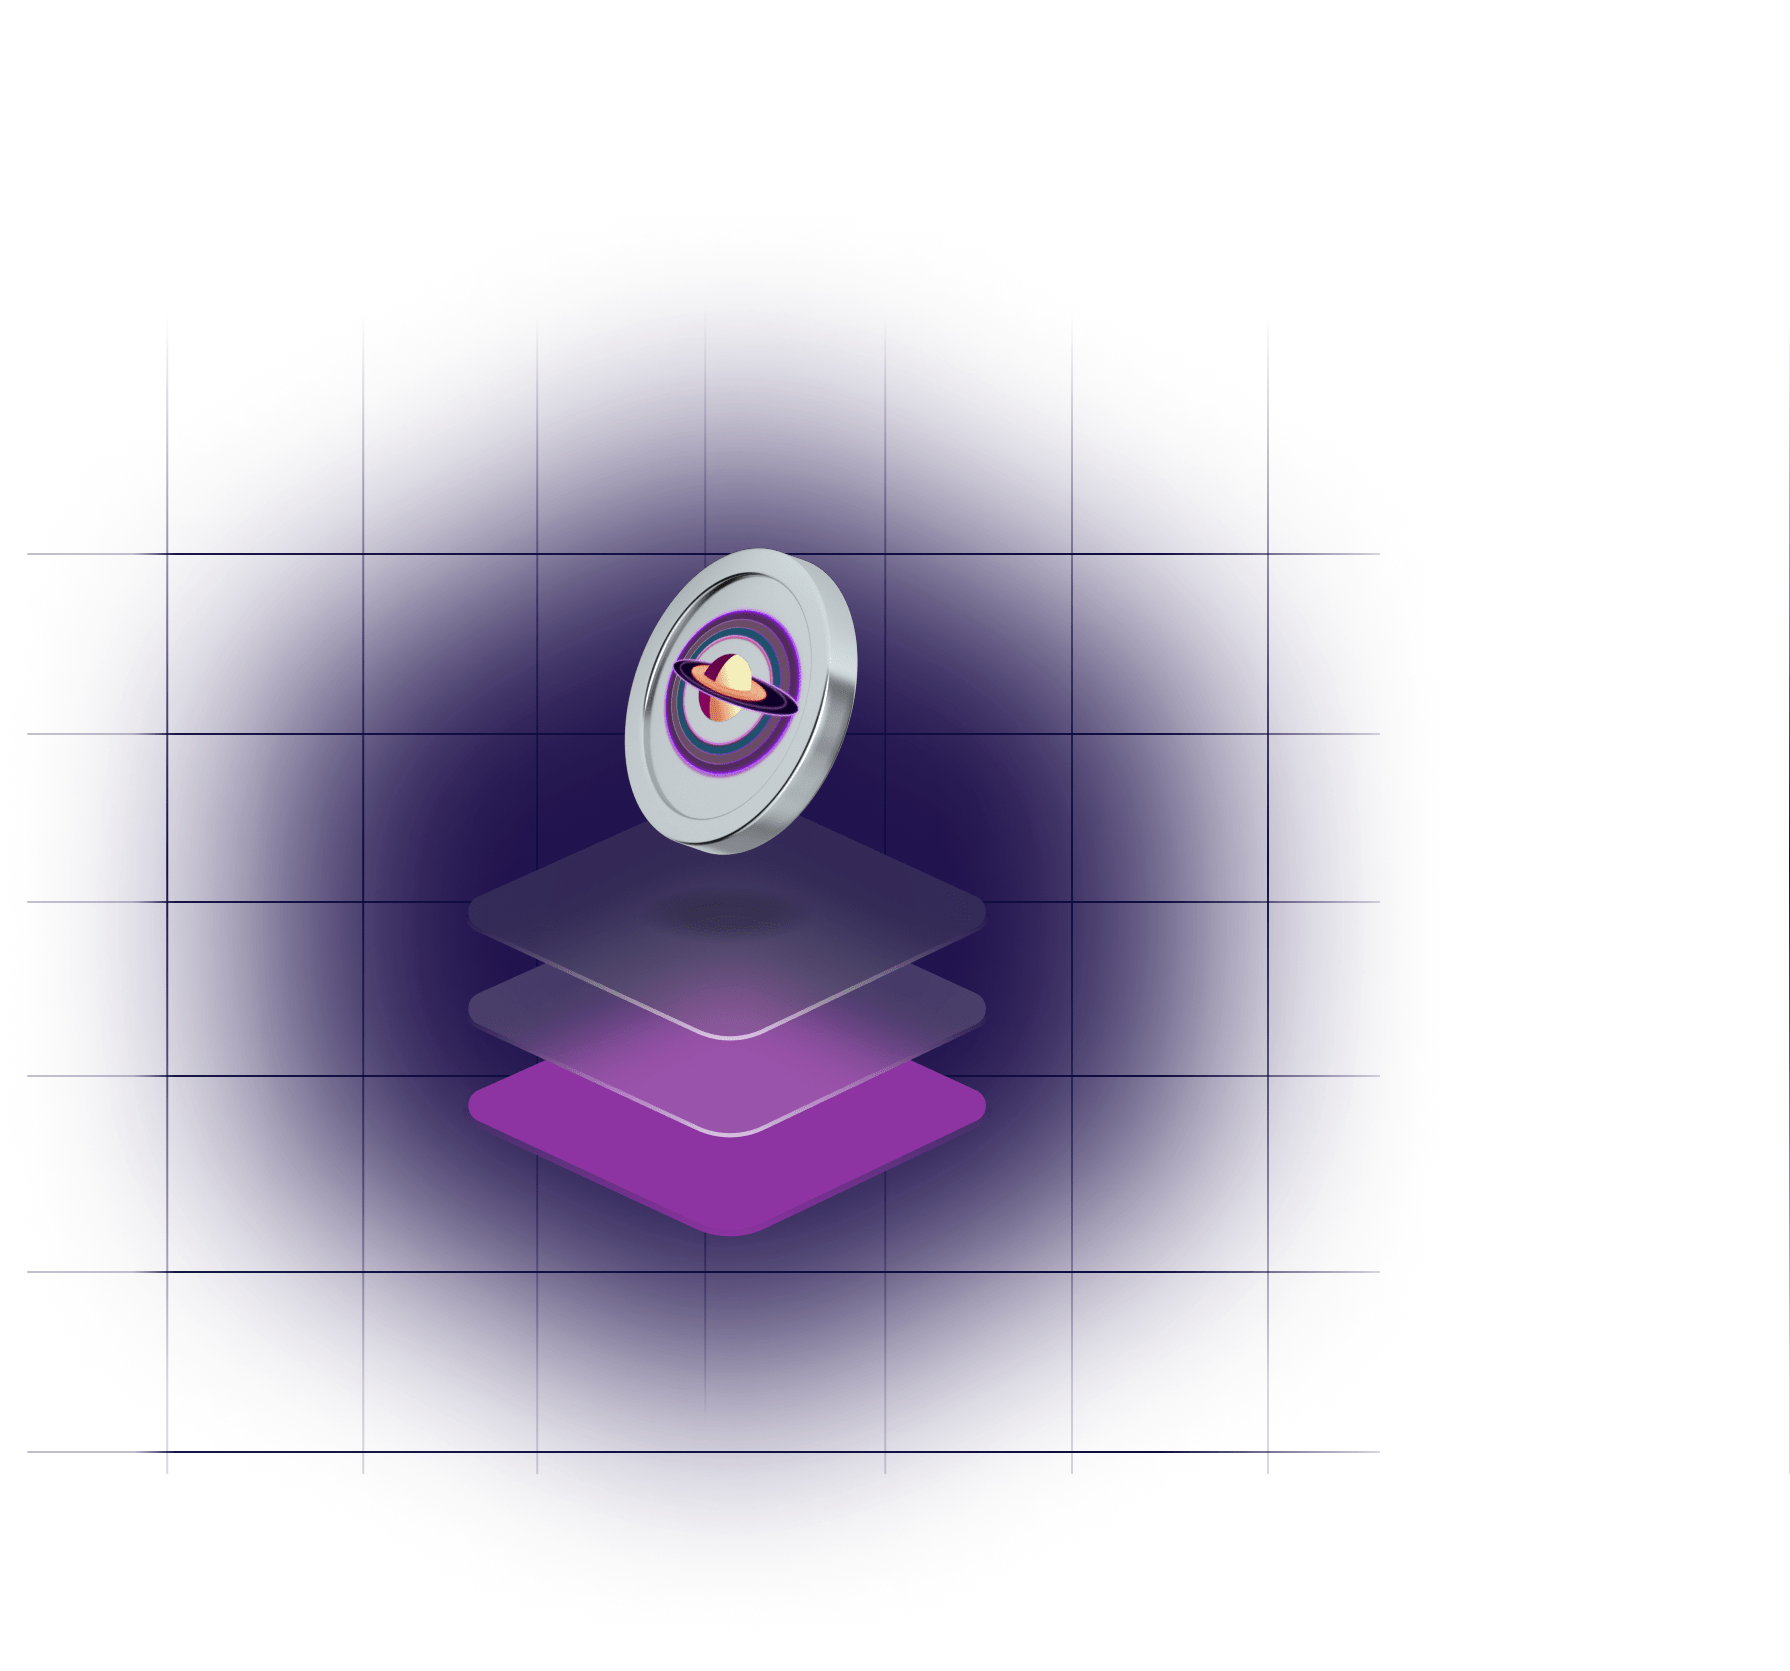
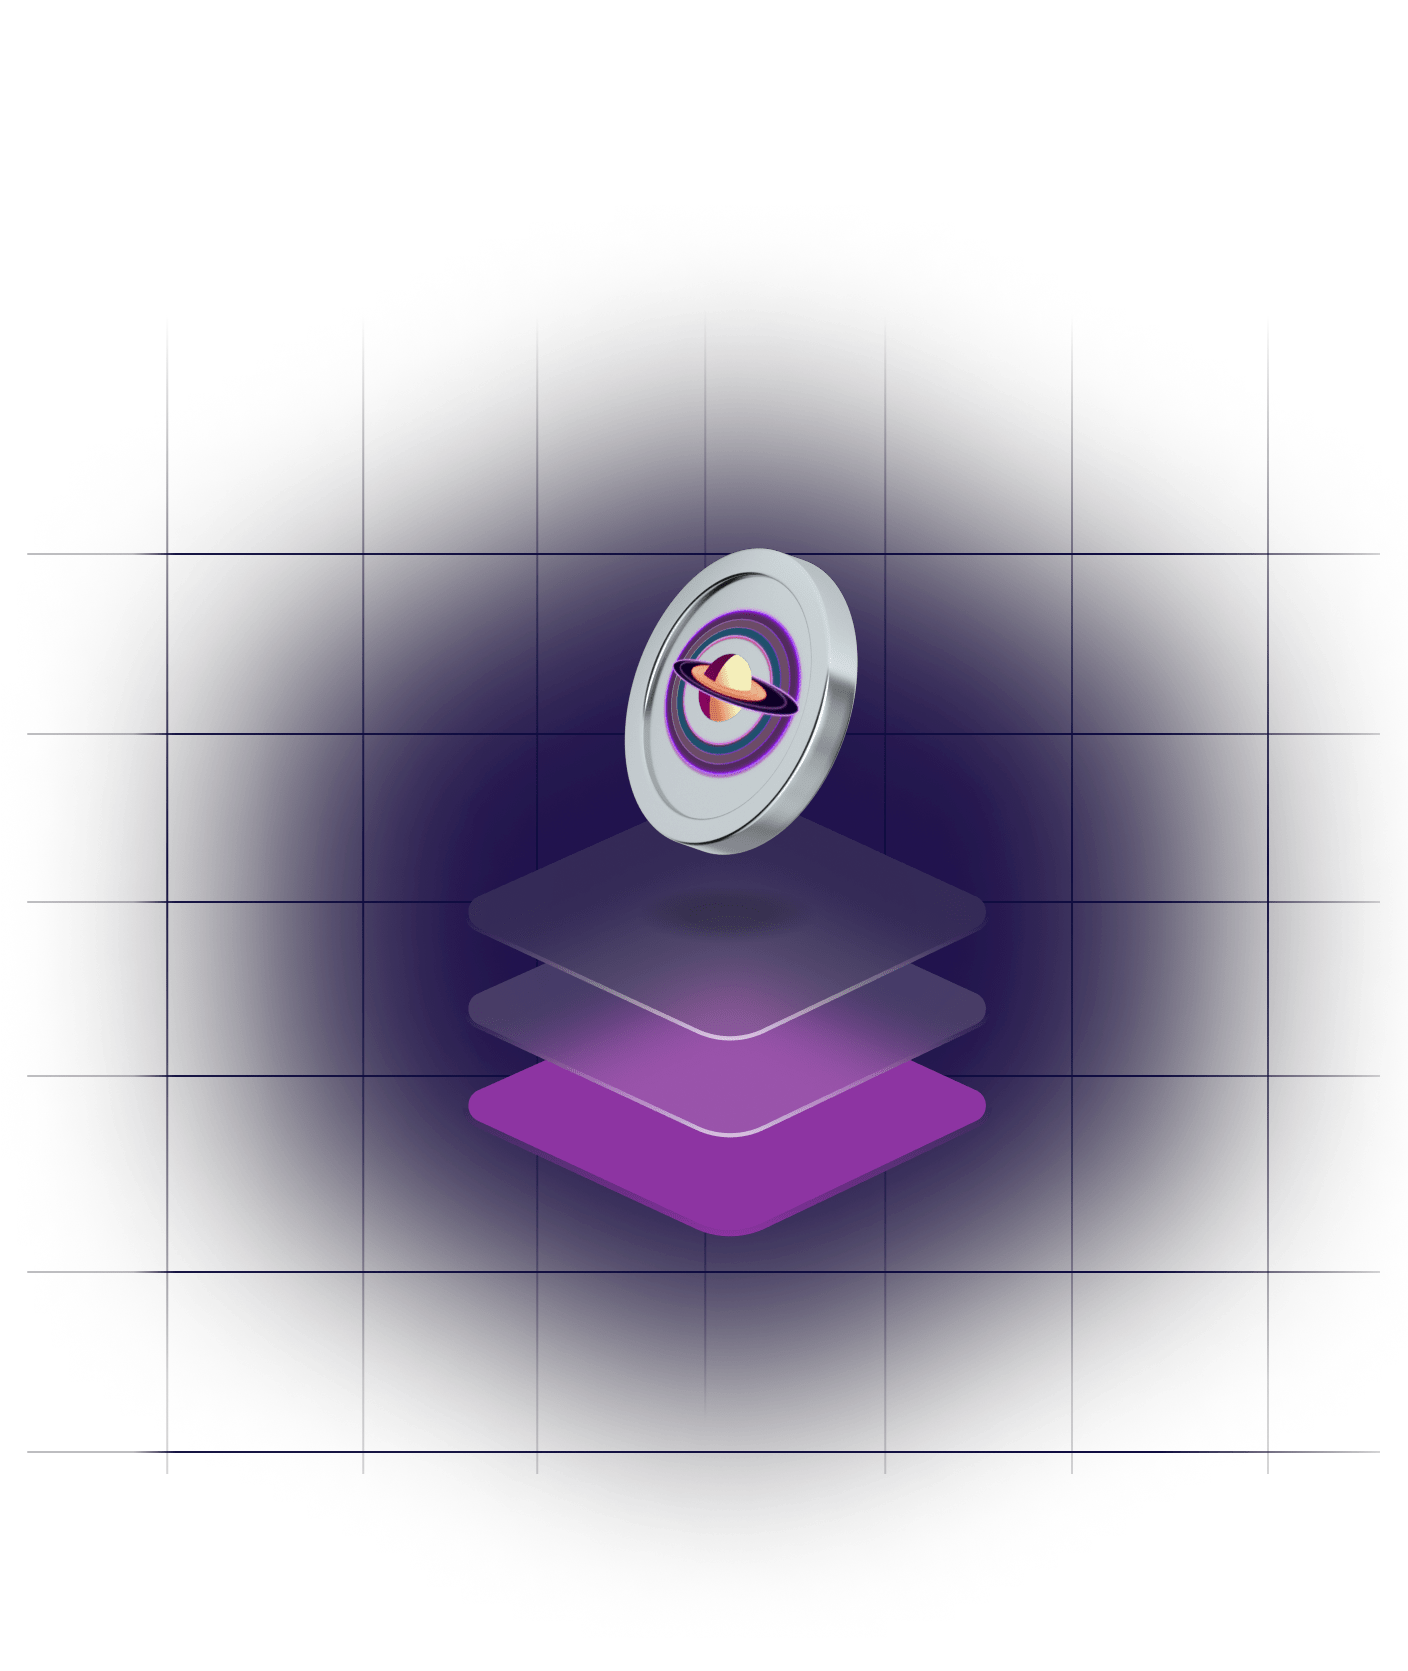
EDIT | Update Benefits section image

diff --git a/components/BenefitsSection/BenefitsSection.module.css b/components/BenefitsSection/BenefitsSection.module.css
@@ -106,7 +106,7 @@
   align-items: flex-end;
   justify-content: center;
   width: auto;
-  right: -50px;
+  right: 0px;
 }
 
 .benefits_img_container_second {
@@ -163,9 +163,8 @@
     padding: 0;
   }
   .benefits_img_container_first {
-    position: absolute;
     width: 500px;
-    right: -100px;
+    /* right: -100px; */
     top: 30px;
   }
   .benefits_img_container_second {
@@ -234,12 +233,11 @@
   }
 } */
 
-@media screen and (max-width: 1000px) {
+@media screen and (max-width: 1320px) {
   .benefits_img_container_first {
-    position: absolute;
     width: 500px;
-    right: -150px;
-    top: 30px;
+    top: -50px;
+    right: -70px;
   }
 }
 
@@ -299,7 +297,7 @@
     right: 0px;
     top: 0px;
     width: 100%;
-    right: -10%;
+    right: 0%;
   }
   .benefits_second_block {
     flex-direction: column-reverse;

diff --git a/components/BenefitsSection/BenefitsSection.tsx b/components/BenefitsSection/BenefitsSection.tsx
@@ -59,7 +59,7 @@ export default class CountdownSection extends Component {
             <div className={styles.benefits_img_container_first}>
               <Image 
                 src="/images/Group358221.png"
-                width={798}
+                width={626}
                 height={746}
                 alt="Coin"
               />
